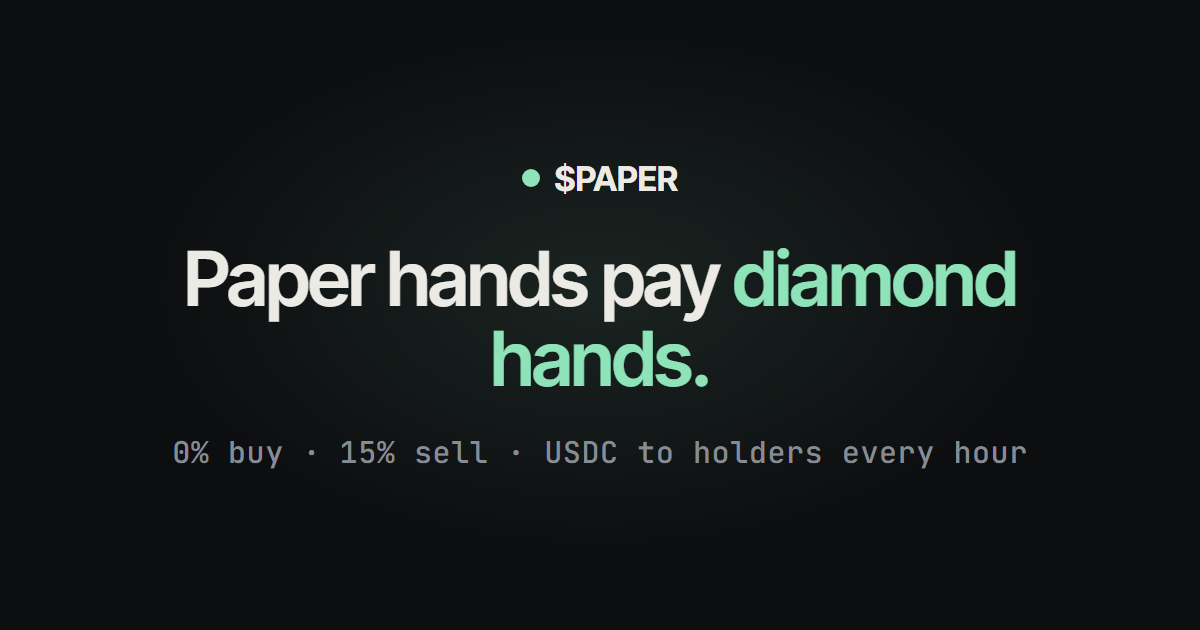
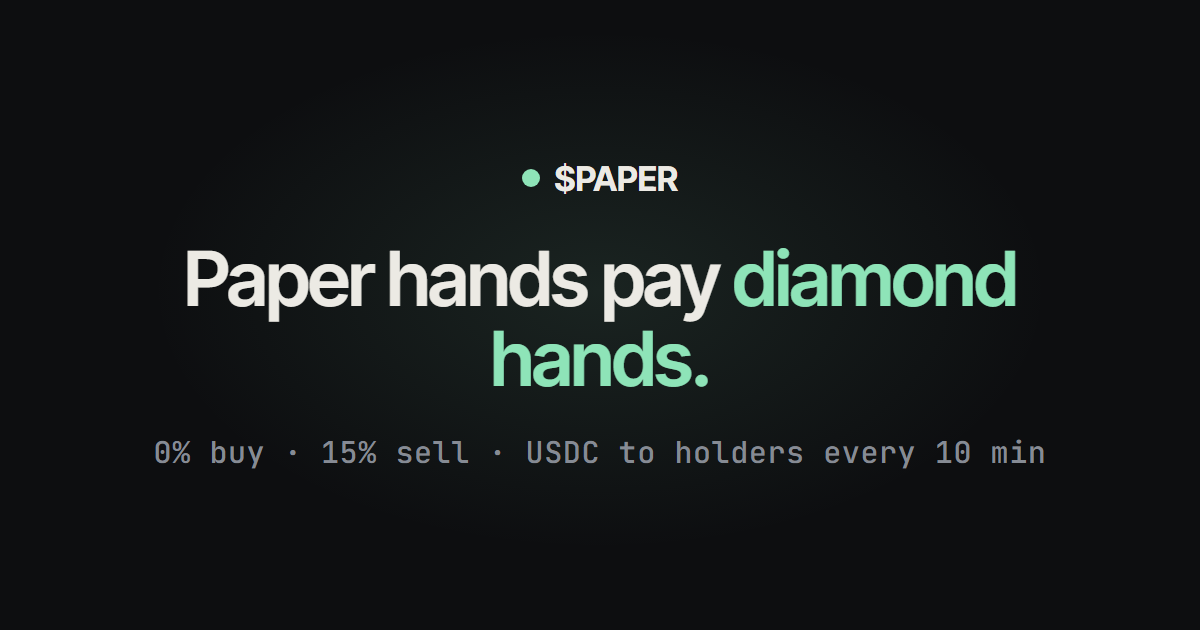
Airdrops every 10 minutes
DROP_MINUTES=10, cron every minute, period-agnostic 'round' copy,
sample data scaled to the drop length, share card updated.
First 10-minute payout confirmed on devnet.

Changed region(s): [[0.4317, 0.6937, 0.8633, 0.754], [0.1233, 0.6937, 0.4008, 0.754]]

diff --git a/src/index.js b/src/index.js
@@ -58,7 +58,7 @@ const publicCfg = (c) => ({ cluster: c.cluster, clientRpc: c.clientRpc, ticker: 
 async function state(env) {
   const cfg = config(env);
   const base = { ...publicCfg(cfg), nextDropAt: nextDropAt(cfg) };
-  if (cfg.demo) return { ...base, ...demoState() };
+  if (cfg.demo) return { ...base, ...demoState(cfg.dropMinutes * 60_000) };
   if (cfg.mint && env.DB) return { ...base, ...(await liveState(env, cfg)) };
   return { ...base, live: false };
 }
@@ -70,7 +70,7 @@ async function walletInfo(env, address) {
   return { address, live: false };
 }
 
-/* ---------------- demo data (deterministic per hour, so refreshes agree) ---------------- */
+/* ---------------- demo data (deterministic per period, so refreshes agree) ---------------- */
 
 function rng(seed) {
   let s = typeof seed === "string" ? [...seed].reduce((a, c) => (Math.imul(a ^ c.charCodeAt(0), 2654435761) >>> 0), 2166136261) : seed >>> 0;
@@ -84,37 +84,38 @@ const DEMO_SUPPLY = 1_000_000_000;
 const DEMO_PRICE = 0.00042; // USD per token
 const DEMO_ELIGIBLE = 612_000_000; // tokens held by eligible wallets, streak-weighted
 
-function demoDrop(h) {
-  const r = rng(h * 7919);
-  const age = (h * HOUR - DEMO_LAUNCH) / HOUR;
+// One sample drop for period k (P = drop length in ms). Sizes scale with P so totals look the same at any cadence.
+function demoDrop(k, P) {
+  const r = rng(k * 7919);
+  const age = (k * P - DEMO_LAUNCH) / HOUR; // hours since launch
   const growth = Math.min(1, 0.25 + age / 400);
-  const usdc = round2((250 + r() * 1300) * growth);
+  const usdc = round2((250 + r() * 1300) * growth * (P / HOUR));
   const holders = Math.round(900 + age * 2.6 + r() * 40);
-  return { n: Math.round(age), at: new Date(h * HOUR).toISOString(), usdc, holders, tx: addr(r).slice(0, 44) + addr(r).slice(0, 44) };
+  return { n: k - Math.floor(DEMO_LAUNCH / P), at: new Date(k * P).toISOString(), usdc, holders, tx: addr(r).slice(0, 44) + addr(r).slice(0, 44) };
 }
 
-function demoState() {
+function demoState(P = HOUR) {
   const now = Date.now();
-  const curH = Math.floor(now / HOUR);
-  const firstH = Math.floor(DEMO_LAUNCH / HOUR);
-  let paid = 0;
-  for (let h = firstH + 1; h <= curH; h++) paid += demoDrop(h).usdc;
+  const cur = Math.floor(now / P);
+  const first = Math.floor(DEMO_LAUNCH / P);
+  let paid = 0, day = 0;
+  const perDay = Math.round(86_400_000 / P);
+  for (let k = first + 1; k <= cur; k++) { const u = demoDrop(k, P).usdc; paid += u; if (k > cur - perDay) day += u; }
   const drops = [];
-  for (let h = curH; h > curH - 48; h--) drops.push(demoDrop(h));
-  const avg24 = drops.slice(0, 24).reduce((a, d) => a + d.usdc, 0) / 24;
+  for (let k = cur; k > cur - 48; k--) drops.push(demoDrop(k, P));
 
-  // Sells since the last drop build the pending pot. One sell roughly every 2-5 minutes.
+  // Recent sells. One roughly every 2-5 minutes.
   const latest = [];
-  const r = rng(curH);
+  const r = rng(Math.floor(now / HOUR));
   let t = now;
   for (let i = 0; i < 30; i++) {
     t -= (60 + r() * 240) * 1000;
     const soldUsd = Math.round(80 + r() ** 2 * 4200);
     latest.push({ wallet: addr(r), soldUsd, paidUsdc: round2(soldUsd * 0.15), at: new Date(t).toISOString() });
   }
-  // The pot for the coming drop fills in step with the hour, so it ends where that drop lands.
-  const pending = round2(demoDrop(curH + 1).usdc * ((now - curH * HOUR) / HOUR));
-
+  // The pot for the coming drop fills in step with the round, so it ends where that drop lands.
+  const pending = round2(demoDrop(cur + 1, P).usdc * ((now - cur * P) / P));
+  const curH = Math.floor(now / HOUR);
   const rt = rng(424242 + Math.floor(curH / 6));
   const top = Array.from({ length: 25 }, () => {
     const paidUsdc = round2(150 + rt() ** 3 * 9000);
@@ -127,8 +128,8 @@ function demoState() {
     price: DEMO_PRICE,
     supply: DEMO_SUPPLY,
     eligibleSupply: DEMO_ELIGIBLE,
-    totals: { paidUsdc: round2(paid), drops: curH - firstH, holders: drops[0].holders },
-    avgDrop24: round2(avg24),
+    totals: { paidUsdc: round2(paid), drops: cur - first, holders: drops[0].holders },
+    avgDrop24: round2(day / perDay),
     pending,
     wall: { top, latest },
     drops,
@@ -144,7 +145,7 @@ function demoWallet(cfg, address) {
   const usd = balance * DEMO_PRICE;
   const eligible = usd >= cfg.minHoldUsd;
   const share = eligible ? (balance * mult) / DEMO_ELIGIBLE : 0;
-  const st = demoState();
+  const st = demoState(cfg.dropMinutes * 60_000);
   const received = round2(st.drops.slice(0, Math.min(48, streakDays * 24 || 6)).reduce((a, d) => a + d.usdc * share, 0) * (1 + streakDays / 6));
   return {
     address, live: true, demo: true,

diff --git a/public/index.html b/public/index.html
@@ -4,11 +4,11 @@
   <meta charset="utf-8">
   <meta name="viewport" content="width=device-width, initial-scale=1, viewport-fit=cover">
   <title>$PAPER</title>
-  <meta name="description" content="Paper hands pay diamond hands. 0% to buy, 15% to sell, and every hour the sell tax is split between holders in USDC.">
+  <meta name="description" content="Paper hands pay diamond hands. 0% to buy, 15% to sell, and every 10 minutes the sell tax is split between holders in USDC.">
   <meta name="theme-color" content="#0d0e10">
   <!-- Link previews (X, Telegram, Discord). The Worker makes og:image absolute for whichever domain serves it. -->
   <meta property="og:title" content="$PAPER: paper hands pay diamond hands">
-  <meta property="og:description" content="0% to buy, 15% to sell. Every hour the sell tax is split between holders in USDC.">
+  <meta property="og:description" content="0% to buy, 15% to sell. Every 10 minutes the sell tax is split between holders in USDC.">
   <meta property="og:type" content="website">
   <meta property="og:image" content="/og.png">
   <meta property="og:image:width" content="1200">
@@ -42,11 +42,11 @@
       <div class="eyebrow" id="eyebrow">Next airdrop in</div>
       <div class="clock" id="clock">--:--</div>
       <div class="hourbar" aria-hidden="true"><div id="hourFill"></div></div>
-      <div class="pot" id="pot" hidden><span class="n" id="potN">$0.00</span><span class="bump" id="potBump"></span><small>in this hour's pot, paid by sellers</small></div>
-      <p class="line" id="line">Paper hands pay 15%. Diamond hands split it in USDC every hour. A ponzi game. No promised returns.</p>
+      <div class="pot" id="pot" hidden><span class="n" id="potN">$0.00</span><span class="bump" id="potBump"></span><small>in this round's pot, paid by sellers</small></div>
+      <p class="line" id="line">Paper hands pay 15%. Diamond hands split it in USDC every 10 minutes. A ponzi game. No promised returns.</p>
 
       <div class="mine" id="mine" hidden>
-        <div class="cut"><span class="est" id="mEst"></span><span class="lbl">your cut this hour</span></div>
+        <div class="cut"><span class="est" id="mEst"></span><span class="lbl">your cut this round</span></div>
         <div class="facts">
           <div><b id="mBal"></b><span>$PAPER held</span></div>
           <div><b id="mMult"></b><span>streak boost</span></div>
@@ -74,7 +74,7 @@
         <ol class="steps">
           <li><div>Buy $PAPER. No tax on buys.</div></li>
           <li><div>Every sell pays 15%, taken in SOL so it never dumps the chart.</div></li>
-          <li><div>On the hour, the pot is swapped to USDC and split by holdings.</div></li>
+          <li><div id="howDrop">Every 10 minutes, the pot is swapped to USDC and split by holdings.</div></li>
           <li><div id="howHold">Hold $50 or more to get paid. Hold longer for up to 1.5× the cut.</div></li>
         </ol>
         <details class="fine"><summary>Rules</summary><ul id="rules"></ul></details>
@@ -101,7 +101,7 @@
   <section class="view" id="view-drops">
     <div class="narrow">
       <h1>Payouts</h1>
-      <p class="lead">One every hour. Every payment is an on-chain transaction you can check.</p>
+      <p class="lead" id="dropsLead">One every 10 minutes. Every payment is an on-chain transaction you can check.</p>
       <div class="rows" id="dropList"></div>
     </div>
   </section>

diff --git a/public/app.js b/public/app.js
@@ -59,6 +59,9 @@
   /* ---------- render ---------- */
   function render() {
     const live = S.live, tax = S.sellTaxBps / 100;
+    const every = S.dropMinutes === 60 ? "hour" : S.dropMinutes + " minutes";
+    $("howDrop").textContent = `Every ${every}, the pot is swapped to USDC and split by holdings.`;
+    $("dropsLead").textContent = `One every ${every}. Every payment is an on-chain transaction you can check.`;
     $("net").hidden = S.cluster !== "devnet" && !S.demo;
     $("net").textContent = S.demo ? "sample data" : "devnet";
     $("line").textContent = `Paper hands pay ${tax}%. Diamond hands split it in USDC every ${S.dropMinutes === 60 ? "hour" : S.dropMinutes + " minutes"}. A ponzi game. No promised returns.` + (live ? "" : " Launching soon.");
@@ -110,7 +113,7 @@
       const pot = potShown || 0;
       $("eyebrow").textContent = "Airdrop";
       $("clock").classList.add("paid");
-      $("clock").textContent = pot > 0 ? `Paying ${usd(pot)} to holders` : "Nothing sold this hour";
+      $("clock").textContent = pot > 0 ? `Paying ${usd(pot)} to holders` : "Nothing sold this round";
       setTimeout(() => { celebrating = false; $("clock").classList.remove("paid"); $("eyebrow").textContent = "Next airdrop in"; load(); }, 4000);
     }
   }

diff --git a/scripts/og-card.html b/scripts/og-card.html
@@ -12,5 +12,5 @@ h1 em{font-style:normal;color:#8ee4b8}
 .clock{margin-top:34px;font:500 30px "JetBrains Mono";color:#868b94;letter-spacing:.02em}
 .dom{position:absolute;left:44px;bottom:34px;font:500 18px "JetBrains Mono";color:#5d626b}
 </style></head><body><div class="glow"></div>
-<div class="wrap"><div class="mark"><i></i>$PAPER</div><h1>Paper hands pay <em>diamond hands.</em></h1><div class="clock">0% buy · 15% sell · USDC to holders every hour</div></div>
+<div class="wrap"><div class="mark"><i></i>$PAPER</div><h1>Paper hands pay <em>diamond hands.</em></h1><div class="clock">0% buy · 15% sell · USDC to holders every 10 min</div></div>
 </body></html>

diff --git a/README.md b/README.md
@@ -1,6 +1,6 @@
 # $PAPER
 
-0% buy tax, 15% sell tax, all of it airdropped to holders as USDC every hour. Hold 7 days without selling for a 1.25× share, 30 days for 1.5×.
+0% buy tax, 15% sell tax, all of it airdropped to holders as USDC every 10 minutes (`DROP_MINUTES`, cron every minute). Hold 7 days without selling for a 1.25× share, 30 days for 1.5×.
 
 ## What's here
 
@@ -112,3 +112,6 @@ Devnet now runs the real payout path (`DRY_RUN="0"`): it signs and sends batched
 - `PAYOUT_SECRET_KEY` secret: the devnet-only payout key from `program-keys/devnet-payout.json`.
 
 Mainnet leaves `USDC_MINT` empty (real USDC) and `SWAP` on, and stays `DRY_RUN="1"` until you go live.
+## Drop timing (2026-11-14)
+
+Airdrops run every **10 minutes** (`DROP_MINUTES="10"`), and the cron runs every minute so each round opens on time. The site copy says "round" and reads the period from config, so changing `DROP_MINUTES` needs no other edits. Sample data scales with it. A faster round means smaller payouts per round (anything under `MIN_PAYOUT_USDC` rolls over to the next round) and about 6x more payout transactions per hour. On mainnet that's about 15,000 lamports per batch of 8 holders.
